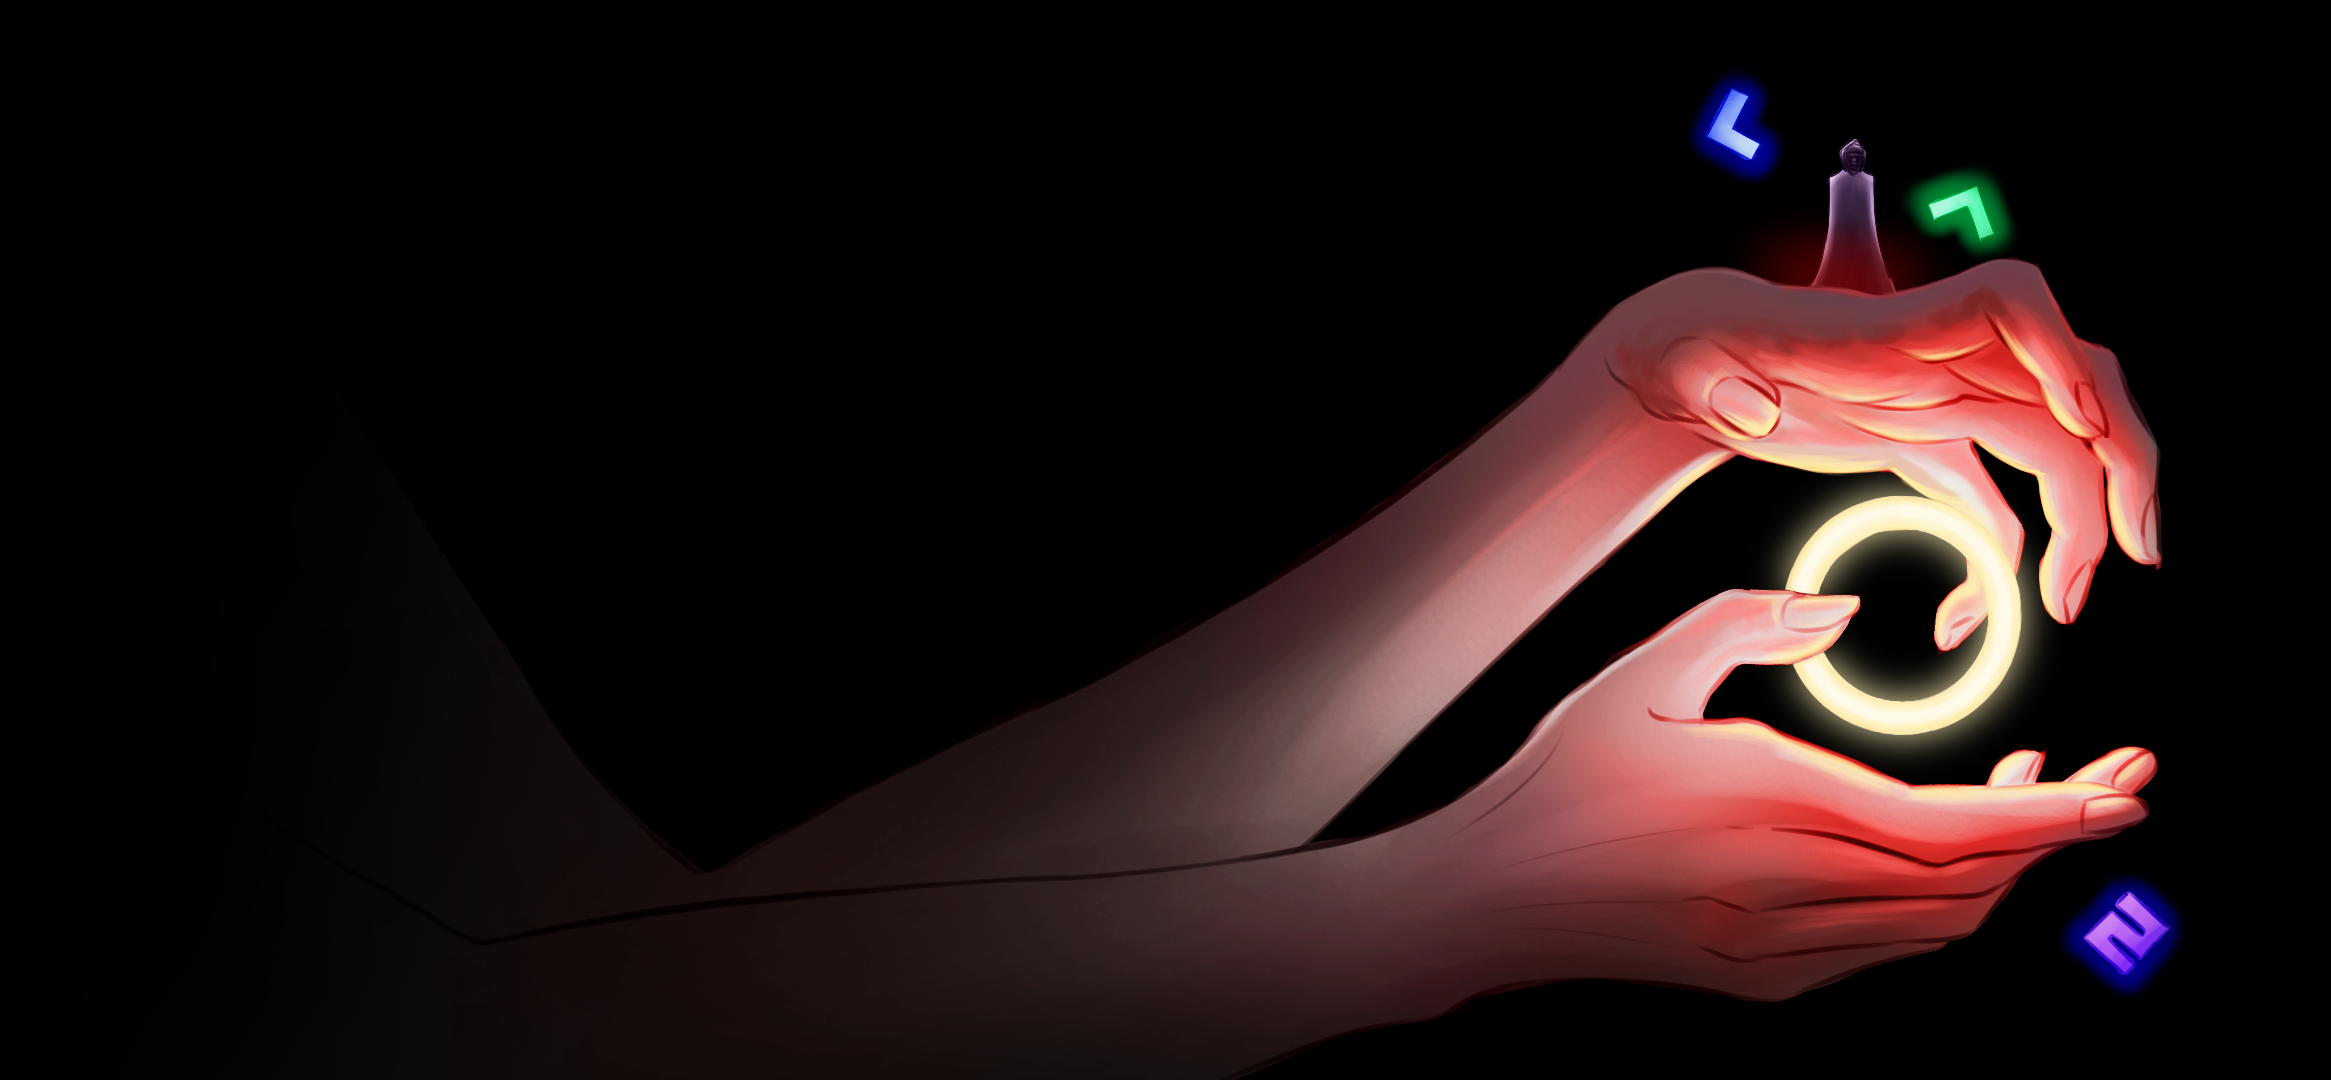
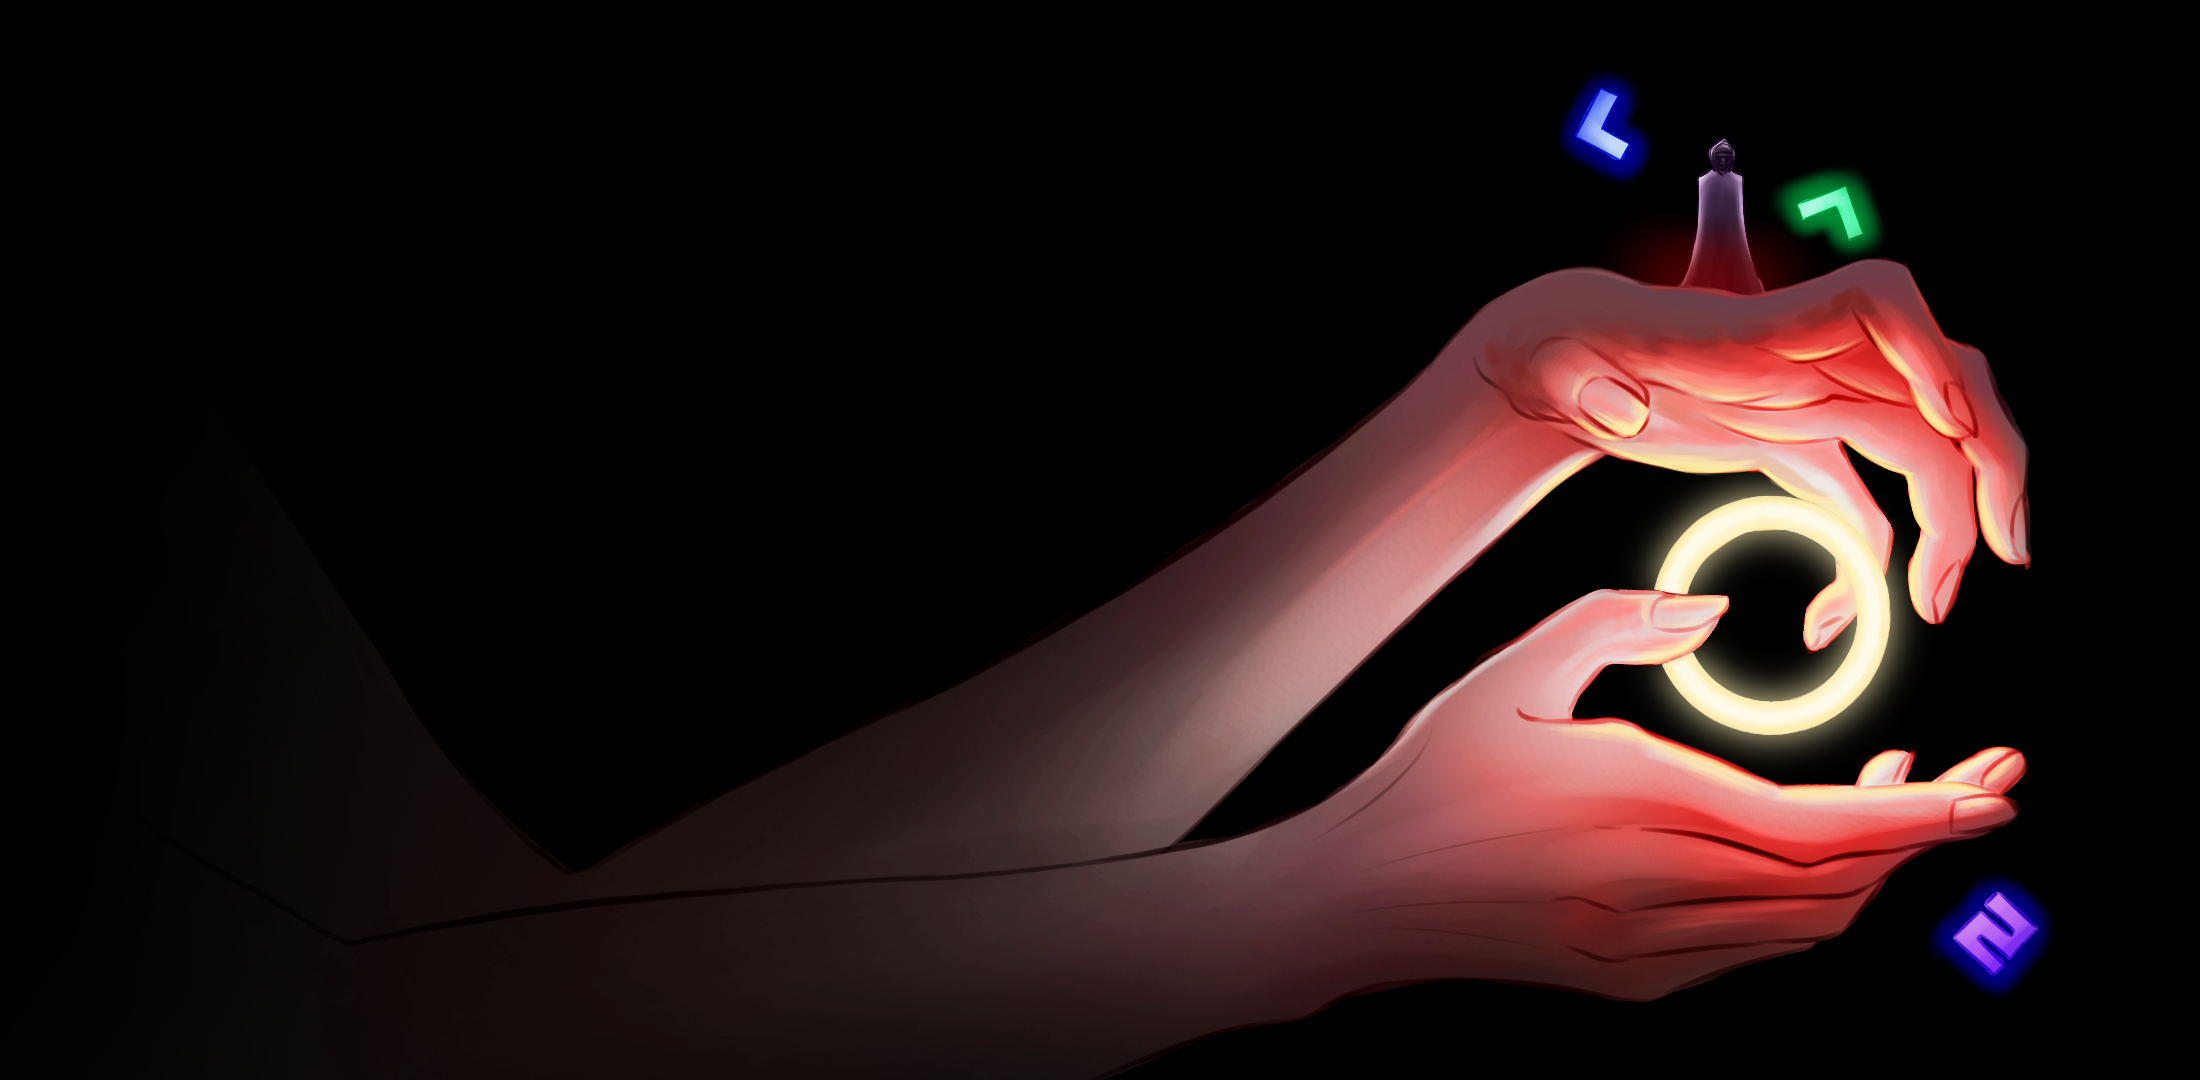
Cropped image, fixed CSS (#42)
* cropped homepageArt
* added specific tags for homePage CSS

diff --git a/src/components/HomePage/Home.css b/src/components/HomePage/Home.css
@@ -1,8 +1,5 @@
-body {
-      margin-top: -70px;
-}
-
 .home-container {
+  margin-top: -70px;
   background-color: black;
   background-image: url('./homepageArt2.png');
   background-size: contain;
@@ -16,30 +13,30 @@ body {
   align-items: center;
 }
 
-.left-home-section {
+.home-container .left-home-section {
   width: 40%;
   padding-left: 10rem;
 }
 
-.title>h1 {
+.home-container .title>h1 {
   color: rgb(255, 255, 255);
   font-size: 50px;
   padding-bottom: 20px;
 }
 
-.caption{
+.home-container .caption{
   color: rgb(181, 181, 181);
 }
 
-.home-play {
+.home-container .home-play {
     margin-top: 32px;
 }
 
-.home-btns .btn {
+.home-container .home-btns .btn {
     margin: 7px;
 } 
 
-.right-home-section {
+.home-container .right-home-section {
   width: 0%;
 }
 
